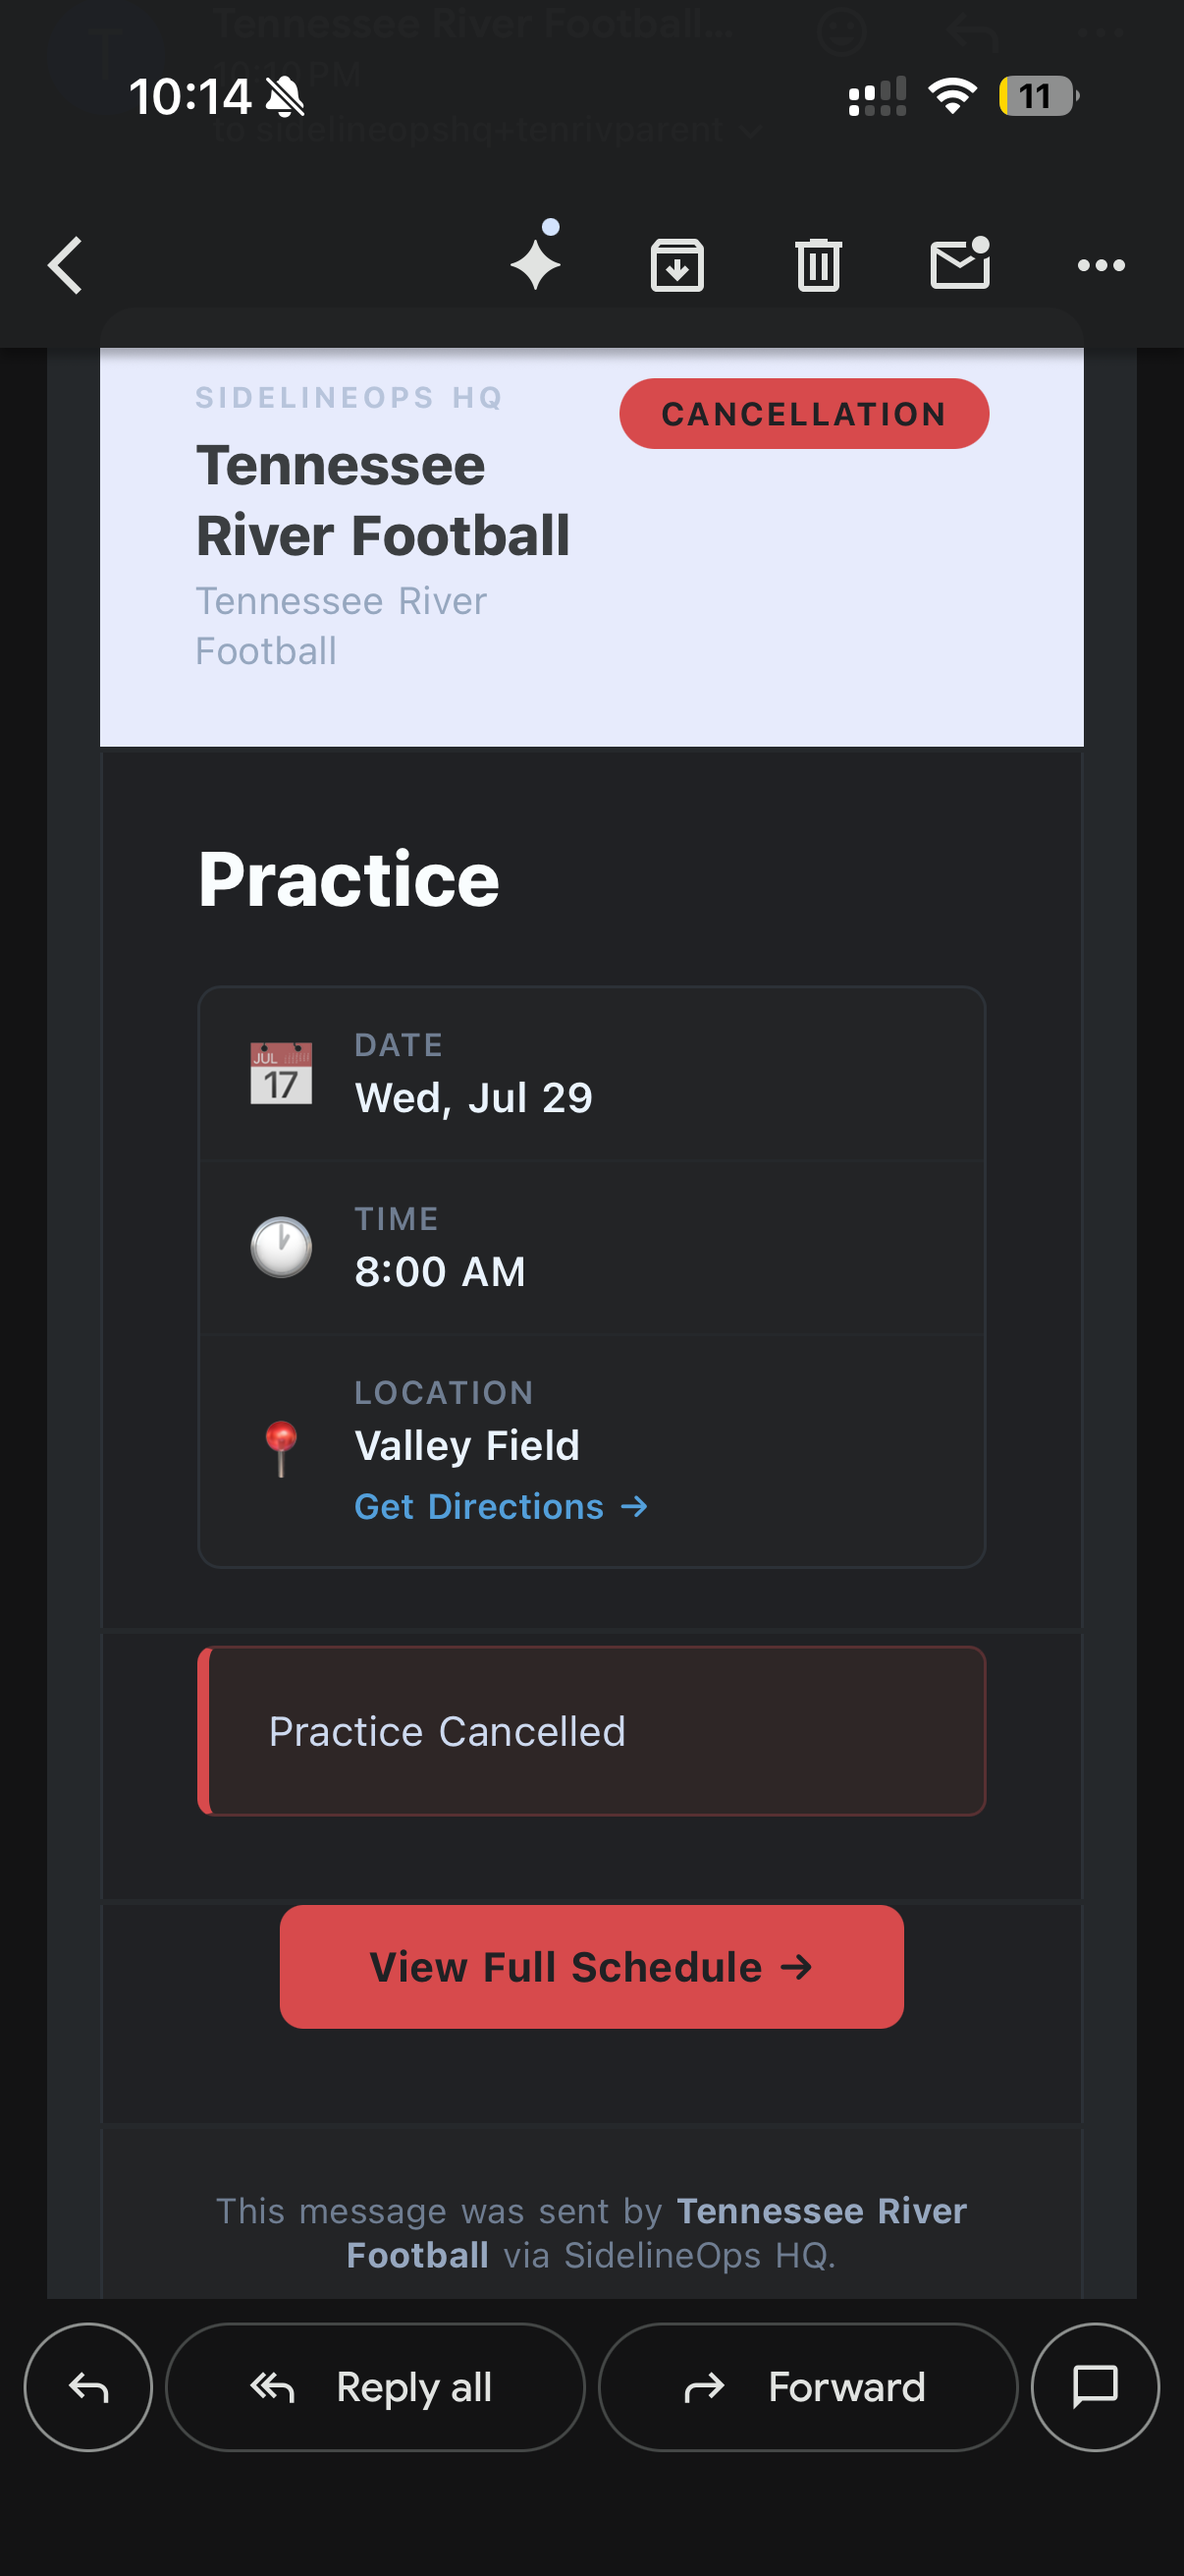
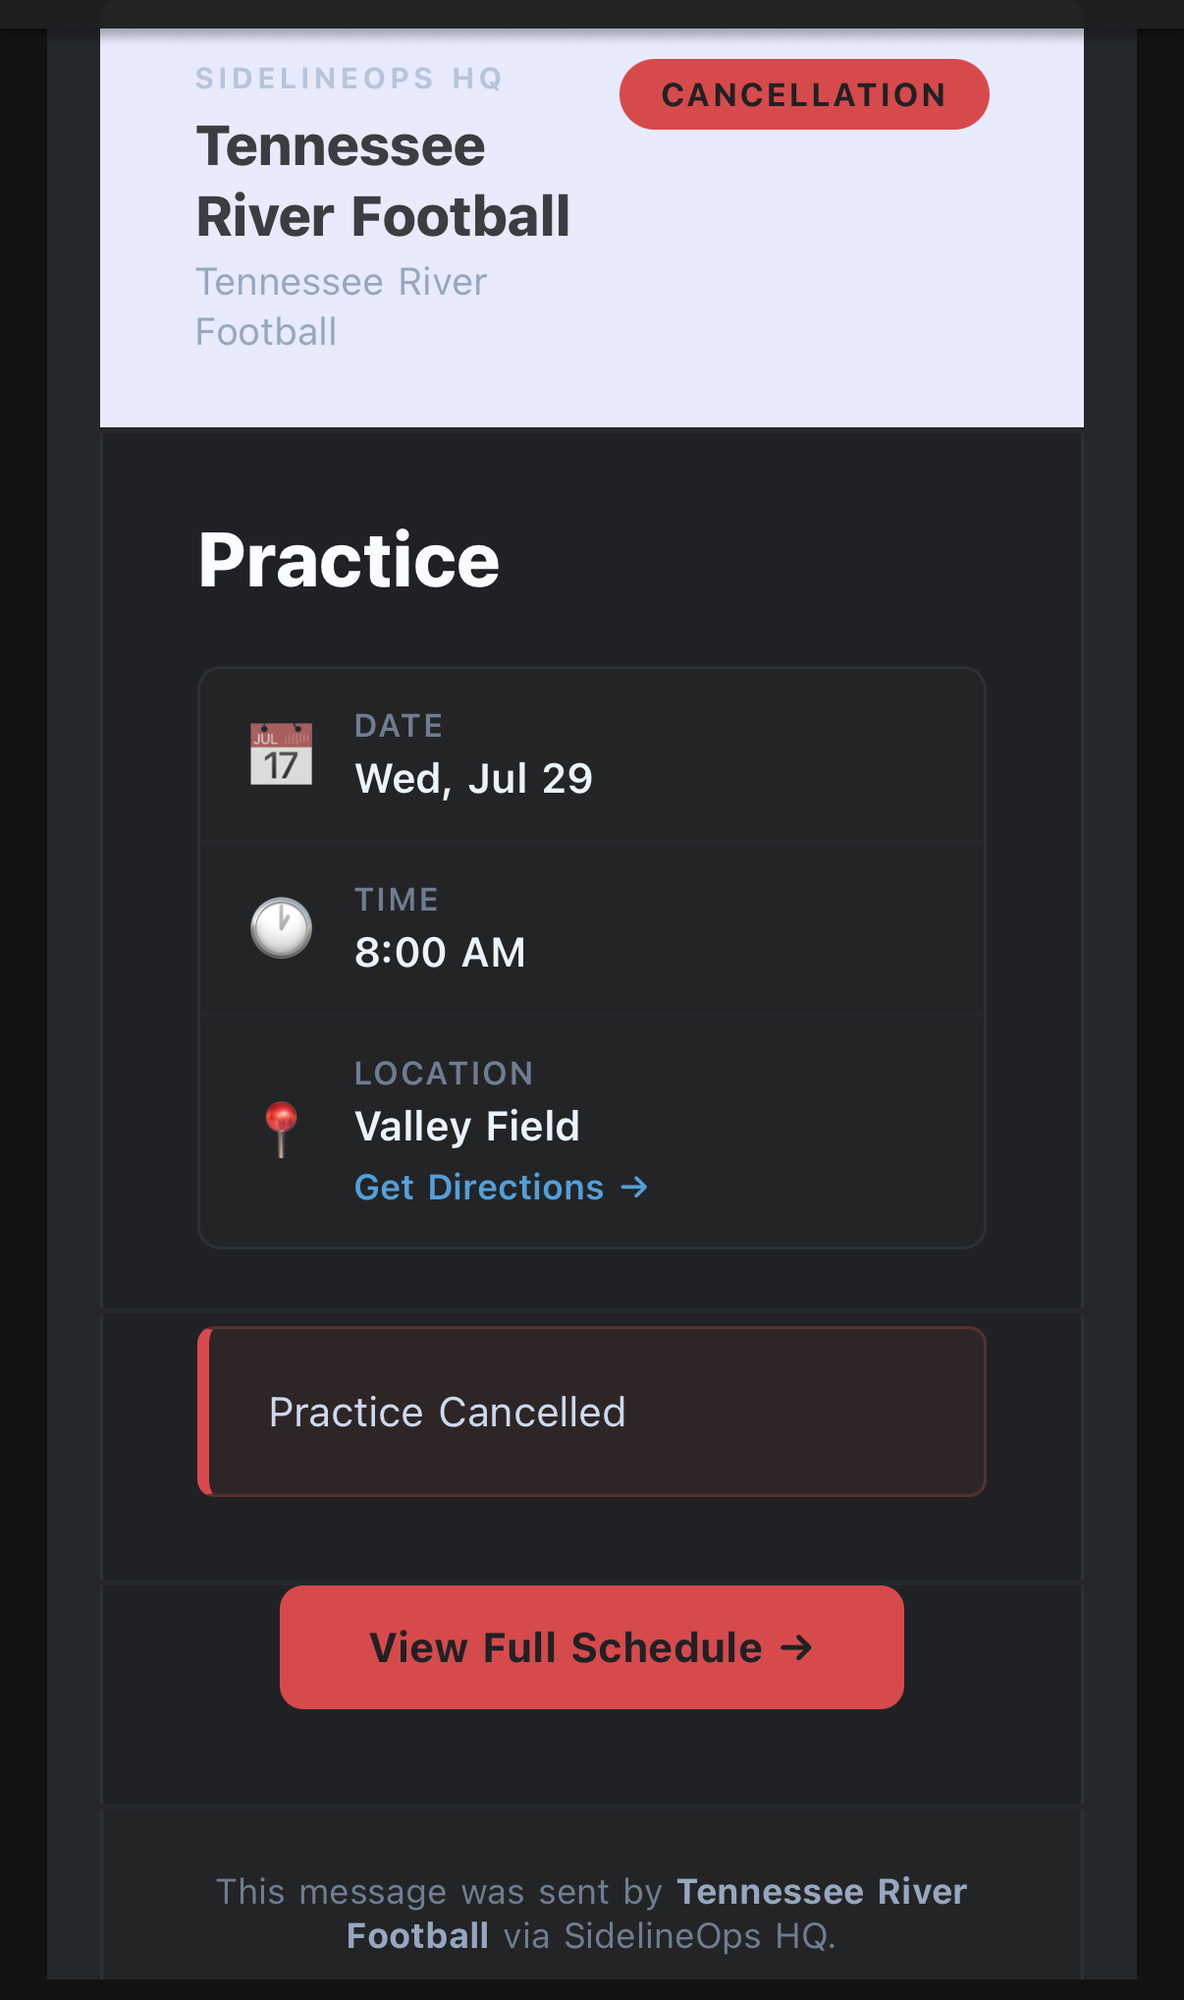
Update founding pricing copy and email screenshot

diff --git a/pricing.html b/pricing.html
@@ -63,7 +63,7 @@
               <ul>
                 <li>Pro-tier features included</li>
                 <li>Founding customer rate</li>
-                <li>Price lock planned for early customers</li>
+                <li>Subscription price locked in for 3 years</li>
                 <li>Limited-time availability</li>
               </ul>
               <a class="btn btn-secondary" style="width:100%;" href="https://app.sidelineopshq.com/signup">Request Beta Access</a>
